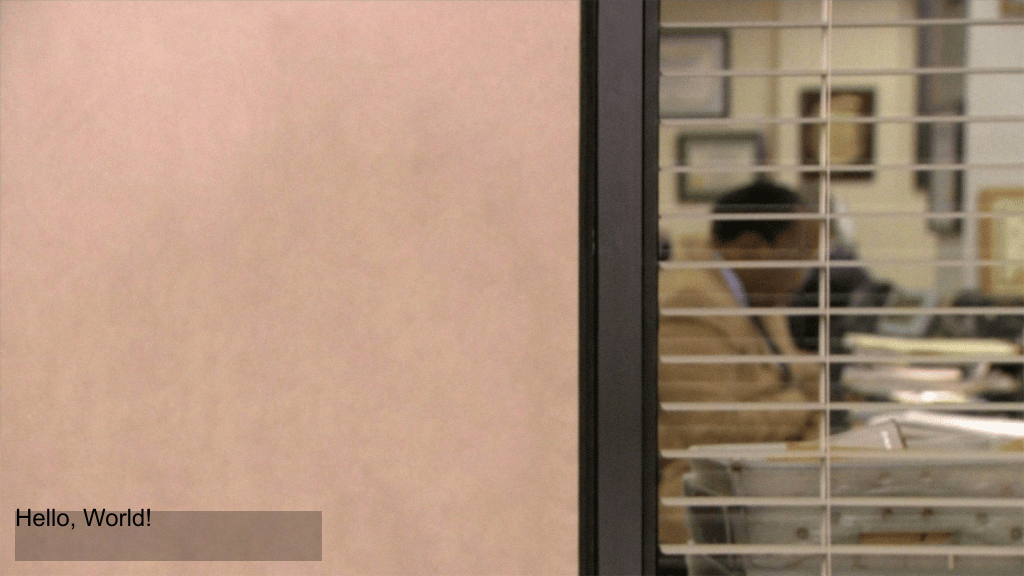
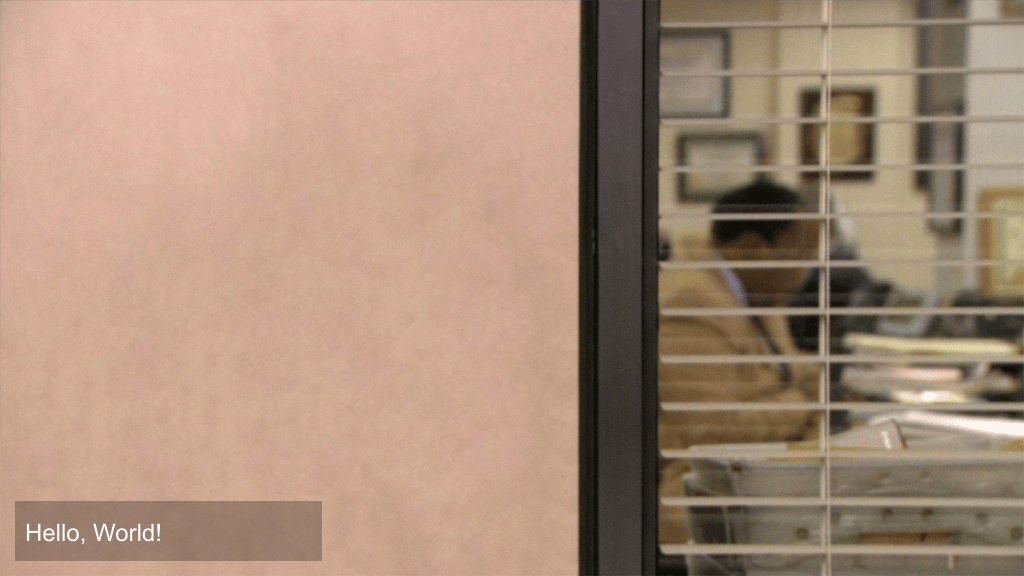
changes: structure and refactoring

Changed region(s): [[0.0, 0.8438, 0.3125, 0.9375]]

diff --git a/cmd/cli/cli.go b/cmd/cli/cli.go
@@ -12,55 +12,79 @@ import (
 )
 
 func main() {
-	f, err := os.Open("image.png")
-	if err != nil {
-		panic(err)
-	}
-	defer f.Close()
-
-	img, _, err := image.Decode(f)
+	img, err := loadImage("image.png")
 	if err != nil {
 		panic(err)
 	}
 
-	newImg := drawRect(img)
-	drawText(newImg)
-
-	// Save the new image to a file
-	out, err := os.Create("output.png")
+	newImg, err := processImage(img)
 	if err != nil {
 		panic(err)
 	}
-	defer out.Close()
 
-	err = png.Encode(out, newImg)
+	err = saveImage("output.png", newImg)
 	if err != nil {
 		panic(err)
 	}
 }
 
-func drawText(newImg *image.RGBA) {
+func loadImage(filePath string) (image.Image, error) {
+	f, err := os.Open(filePath)
+	if err != nil {
+		return nil, err
+	}
+	defer f.Close()
+
+	img, _, err := image.Decode(f)
+	if err != nil {
+		return nil, err
+	}
+
+	return img, nil
+}
+
+func saveImage(filePath string, img *image.RGBA) error {
+	out, err := os.Create(filePath)
+	if err != nil {
+		return err
+	}
+	defer out.Close()
+
+	return png.Encode(out, img)
+}
+
+func processImage(img image.Image) (*image.RGBA, error) {
+	newImg := drawRect(img)
+	err := drawText(newImg)
+	if err != nil {
+		return nil, err
+	}
+	return newImg, nil
+}
+
+func drawText(newImg *image.RGBA) error {
 	fontBytes, err := os.ReadFile("assets/arial.ttf")
 	if err != nil {
-		panic(err)
+		return err
 	}
 	c := freetype.NewContext()
 	font, err := freetype.ParseFont(fontBytes)
 	if err != nil {
-		panic(err)
+		return err
 	}
 	c.SetDPI(72)
 	c.SetFont(font)
 	c.SetFontSize(24)
 	c.SetClip(newImg.Bounds())
 	c.SetDst(newImg)
-	c.SetSrc(image.NewUniform(color.Black))
+	c.SetSrc(image.NewUniform(color.White))
 
-	pt := freetype.Pt(15, newImg.Rect.Dy()-50)
+	pt := freetype.Pt(25, newImg.Rect.Dy()-35)
 	_, err = c.DrawString("Hello, World!", pt)
 	if err != nil {
-		panic(err)
+		return err
 	}
+	return nil
 }
 
 func drawRect(img image.Image) *image.RGBA {
@@ -68,17 +92,20 @@ func drawRect(img image.Image) *image.RGBA {
 	height := img.Bounds().Dy()
 
 	newImg := image.NewRGBA(image.Rect(0, 0, width, height))
-
-	rectW := int(math.Round(float64(width) * 0.3))
-	rectH := 50
-	padding := 15
 	draw.Draw(newImg, newImg.Bounds(), img, image.Point{0, 0}, draw.Over)
 
-	rectImg := image.NewRGBA(image.Rect(0, 0, rectW, rectH))
-	fillColor := color.RGBA{0, 0, 0, 64}
-	draw.Draw(rectImg, rectImg.Bounds(), &image.Uniform{fillColor}, image.Point{0, 0}, draw.Src)
+	rectW := int(math.Round(float64(width) * 0.3))
+	rectH := 60
+	padding := 15
+	// rectPos := image.Point{0 + padding, (height - rectH) - padding}
+	rectPos := image.Rect(padding, height-rectH-padding, padding+rectW, height-padding)
 
-	rectPos := image.Point{0 + padding, (height - rectH) - padding}
-	draw.Draw(newImg, image.Rect(rectPos.X, rectPos.Y, rectPos.X+rectW, rectPos.Y+rectH), rectImg, image.Point{0, 0}, draw.Over)
+	// rectImg := image.NewRGBA(image.Rect(0, 0, rectW, rectH))
+	fillColor := color.RGBA{0, 0, 0, 64}
+	draw.Draw(newImg, rectPos, &image.Uniform{fillColor}, image.Point{}, draw.Over)
+
+	// draw.Draw(rectImg, rectImg.Bounds(), &image.Uniform{fillColor}, image.Point{0, 0}, draw.Src)
+
+	// draw.Draw(newImg, image.Rect(rectPos.X, rectPos.Y, rectPos.X+rectW, rectPos.Y+rectH), rectImg, image.Point{0, 0}, draw.Over)
 	return newImg
 }

diff --git a/cmd/server/main.go b/cmd/server/main.go
@@ -1,12 +1,12 @@
 package main
 
 import (
-	"github.com/brunoleitem/go-wm/internal/routes"
+	"github.com/brunoleitem/go-img-api/api"
 	"github.com/gin-gonic/gin"
 )
 
 func main() {
 	server := gin.Default()
-	routes.RegisterRoutes(server)
+	api.RegisterRoutes(server)
 	server.Run(":3333")
 }

diff --git a/api/routes.go b/api/routes.go
@@ -1,0 +1,11 @@
+package api
+
+import (
+	"github.com/brunoleitem/go-img-api/internal/handlers"
+	"github.com/gin-gonic/gin"
+)
+
+func RegisterRoutes(server *gin.Engine) {
+	server.GET("/api/healthcheck", handlers.HandleHealthCheck)
+	server.POST("/api/upload", handlers.Uploader)
+}

diff --git a/internal/handlers/healthcheck.go b/internal/handlers/healthcheck.go
@@ -1,4 +1,4 @@
-package controllers
+package handlers
 
 import (
 	"net/http"

diff --git a/internal/handlers/uploader.go b/internal/handlers/uploader.go
@@ -1,4 +1,4 @@
-package controllers
+package handlers
 
 import (
 	"net/http"
